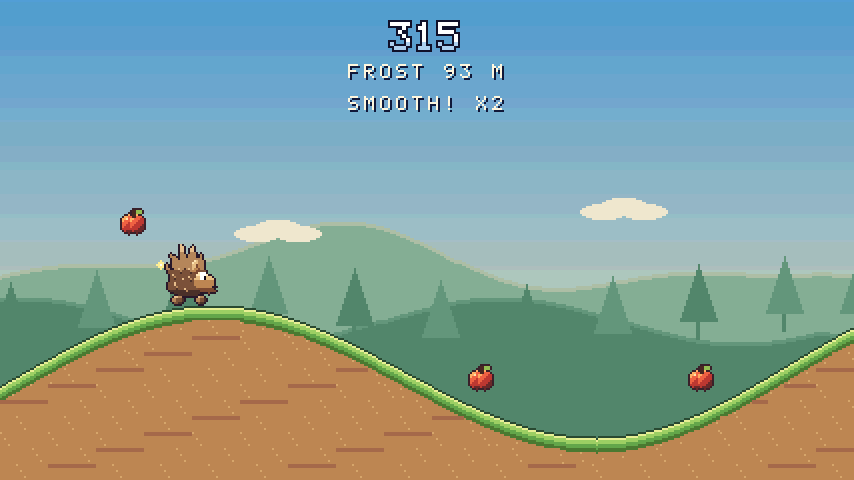
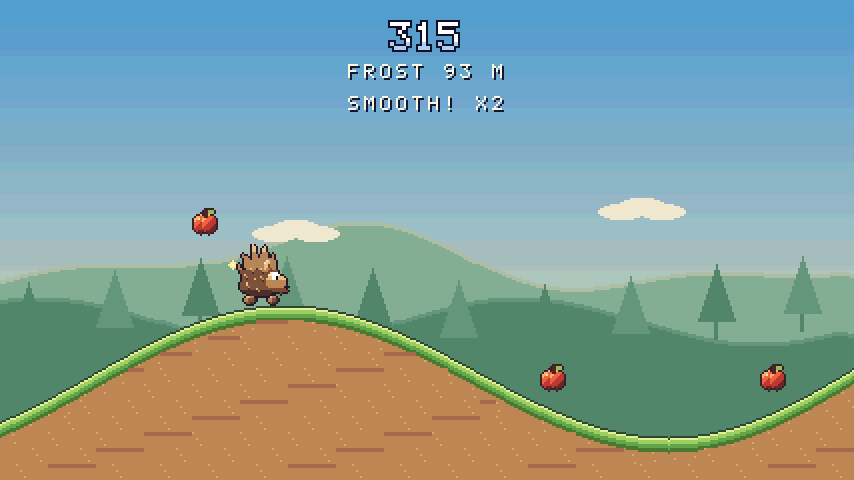
Wide view 1/3 left: hedgehoghills
The owner's decision: in widescreen the hedgehog sat too far left before a long empty
stretch. A third of the view's extra width is now shown behind it, two thirds ahead:
the camera (draw.c cam_x; split.c each view's scroll) starts WIDE_LEFT of the view's
columns past those it has at 320 left of the world's scroll (game.h: 36 at 427, 67 at
520, 80 at 560; a half view a third of its own extra columns; 0 at 320), so the
hedgehog runs that much right of HERO_X; the stage origin and the UI are unchanged.
- Behind it the hills are drawn: the terrain, the apples and the frost from the left;
  before the start (the title too) the ground behind the starting line (a split view
  may now scroll left of 0 by its third; floor divisions there).
- The world, the physics, the scoring and the start distance are unchanged: the logs at
  320, 427 and 520 are identical to before; 320 is byte-identical (300 dense pictures
  and 4 logs compared).
- tests/wide_test.sh: the view check (--opt view=1) asserts the third on the left, the
  hedgehog's screen x (that of 320 plus the third) and the next apple's distance on the
  screen (that of 320) at 427, 520 and 560, at the start, in a run and in P1's view of
  a 2-player game.
- Screenshots at 427 and 520 re-rendered; DESIGN.md says so.

diff --git a/games/hedgehoghills/src/draw.c b/games/hedgehoghills/src/draw.c
@@ -1,10 +1,10 @@
 /* Hedgehog Hills video, using the shared 8BCraft kit. MIT, (c) 2026 8BCraft.
- * Widescreen (DESIGN.md "Widescreen"): a side-scroller, so the hills are revealed wider, to the right (the stage
- * origin stays 0): the hedgehog runs at the same screen x (HERO_X), the screen shows further ahead: the terrain's
- * columns, the apples of the hills in view and the distant forest to the screen's edge. The maps are 128 tiles wide;
- * the forest's 512-px panorama goes on with its mirror image (the same tiles h-flipped: nothing repeats on a 560-px
- * screen). The UI is centred (the UI layer scrolls by -hu_ui_x(), the game's UI sprites add it); the split screens
- * (split.c) split the whole width. */
+ * Widescreen (DESIGN.md "Widescreen"): a side-scroller, so the hills are revealed wider: a third of the extra width
+ * behind the hedgehog, two thirds ahead (the stage origin stays 0; the camera, cam_x, starts draw_wide_left() px left
+ * of the world's scroll, so the hedgehog runs that much right of HERO_X): the terrain's columns, the apples of the
+ * hills in view and the distant forest from edge to edge. The maps are 128 tiles wide; the forest's 512-px panorama
+ * goes on with its mirror image (the same tiles h-flipped: nothing repeats on a 560-px screen). The UI is centred
+ * (the UI layer scrolls by -hu_ui_x(), the game's UI sprites add it); the split screens (split.c) split the whole width. */
 #include "game.h"
 #include "assets.h"
 #include "house_ui.h"
@@ -18,6 +18,11 @@ static rs_color line_col[RS_SCREEN_H];
 static int shown_state=-1,shown_best=-1,cam_y;
 static int laid_w;                     /* the width the maps were laid out for (a state of another width: relayout) */
 int draw_wide(void) { return rs_screen_width()>RS_SCREEN_W; }
+/* the columns a view of view_w shows behind its hedgehog: a third of its extra width (view_w less the width it has at 320:
+ * 320 for the screen, 159 for a half); 0 at 320 */
+int draw_wide_left(int view_w) { return WIDE_LEFT(view_w-view_w*RS_SCREEN_W/rs_screen_width()); }
+int draw_p1_x=-999;
+static int cam_x;                      /* the single view's camera: the world's scroll less draw_wide_left() (per frame) */
 /* the distant forest's map entry at column col of a 64- or 128-tile map: widescreen, the panorama then its mirror */
 uint16_t draw_hills_entry(int row,int col) {
     col&=draw_wide()?127:63;
@@ -66,7 +71,7 @@ static void distant_hills(const world *w) {
         uint16_t tile=yy<0?RS_MAP(gm_bg3_tile_count,PAL_HILLS,0,0,0):draw_hills_entry(yy<HILLS_H?yy:HILLS_H-1,x);
         rs_bg_put(RS_BG3,x,y,tile);
     }
-    rs_bg_scroll(RS_BG3,(w->scroll/4)&(mw*8-1),offset-first*8);
+    rs_bg_scroll(RS_BG3,(cam_x>>2)&(mw*8-1),offset-first*8);   /* >>2: floor (cam_x < 0 behind the start) */
 }
 /* the maps of this width: 64 tiles at 320, 128 wider */
 static void maps_setup(void) {
@@ -126,7 +131,7 @@ static void terrain(const world *w) {
     for(int c=0;c<cols;c++) {
         int floors[8],lo=1000,hi=-1000;
         for(int x=0;x<8;x++) {
-            floors[x]=(hill_y(w,w->scroll+c*8+x)>>16)-cam_y;
+            floors[x]=(hill_y(w,cam_x+c*8+x)>>16)-cam_y;
             if(floors[x]<lo) lo=floors[x];
             if(floors[x]>hi) hi=floors[x];
         }
@@ -136,15 +141,15 @@ static void terrain(const world *w) {
         for(int r=first;r<=last && r-first<8;r++) for(int y=0;y<8;y++) for(int x=0;x<8;x++) {
             int yy=r*8+y,d=yy-floors[x],val=0;
             if(d>=0) val=d==0?1:d==1?2:d<4?3:d<6?4:d<8?5:6;
-            if(d>=8 && ((w->scroll+c*8+x)*13+yy*7)%41==0) val=9;
-            if(val && draw_frozen_pixel(w,w->scroll+c*8+x,yy+cam_y)) val=draw_iced(val);
+            if(d>=8 && ((cam_x+c*8+x)*13+yy*7)%41==0) val=9;
+            if(val && draw_frozen_pixel(w,cam_x+c*8+x,yy+cam_y)) val=draw_iced(val);
             edge[(r-first)*64+y*8+x]=(uint8_t)val;
         }
         rs_tiles_load8(VR_BG2+16+c*8,edge,8);
         for(int r=0;r<30;r++) {
             int tile=r<first?0:r<=last?16+c*8+r-first:((r+c/3)%5==0?2:(r+c)%3==0?3:1);
             if(r>last) {
-                int wx=w->scroll+c*8;
+                int wx=cam_x+c*8;
                 if(front-wx-7+48-8>=96) tile+=3;
                 else if(front-wx+48+8>0 && frost_tile<256) {
                     uint8_t pix[64];
@@ -234,6 +239,7 @@ void draw_frame(const world *w,int state,int st_t,int best,int new_best,int paus
         if(yy<target) target=yy;
     }
     if(!paused) cam_y+=(target-cam_y)/8;
+    cam_x=w->scroll-draw_wide_left(rs_screen_width());   /* widescreen: a third of the extra width behind */
     scenery(w); terrain(w); distant_hills(w);
     int sx=hu_shake_x(),sy=hu_shake_y();
     rs_bg_scroll(RS_BG2,-sx,-sy);
@@ -262,28 +268,30 @@ void draw_frame(const world *w,int state,int st_t,int best,int new_best,int paus
     } else {
         for(int p=w->players-1;p>=0;p--) {
             const hero *h=&w->h[p];
-            if(h->state==HS_OFF||h->x<-24) continue;
-            int yy=(h->y>>16)-32+2-cam_y;
-            spr(draw_hero_sprite(h,st_t),h->x-16+sx,yy+sy,2,draw_player_pal(p));
+            int hx=h->x+w->scroll-cam_x;       /* its screen x (h->x: from the world's scroll) */
+            if(h->state==HS_OFF||hx<-24) continue;
+            int yy=(h->y>>16)-32+2-cam_y,n=rs_oam_next();
+            spr(draw_hero_sprite(h,st_t),hx-16+sx,yy+sy,2,draw_player_pal(p));
+            if(p==0) draw_p1_x=rs_oam_next()>n?rs_oam(n)->x+16+rs_screen_origin_x():-999;
             if(h->state==HS_RUN && h->held && h->grounded && h->vx>6*Q16_ONE)
-                spr(SPR_PUFF+(w->t/4)%3,h->x-25,yy+24,1,-1);
-            if(h->smooth_t>0) hu_sparkle(h->x-20-hu_ui_x(),yy+6,w->t,2);   /* kit sprites: UI coordinates */
+                spr(SPR_PUFF+(w->t/4)%3,hx-25,yy+24,1,-1);
+            if(h->smooth_t>0) hu_sparkle(hx-20-hu_ui_x(),yy+6,w->t,2);   /* kit sprites: UI coordinates */
             if(h->spill && h->smooth_t<0 && h->land_t<24) {
                 int t=h->land_t;
                 for(int k=0;k<h->spill;k++)
-                    spr(SPR_APPLE,h->x-8-t*(k+1),yy+8-t*3+t*t/8-k*5,1,-1);
+                    spr(SPR_APPLE,hx-8-t*(k+1),yy+8-t*3+t*t/8-k*5,1,-1);
             }
         }
         /* the apples of the hills in view (two hills at 320; widescreen: as many as the screen shows) */
-        int first=(w->scroll/HILL_SPAN)*3,hills_seen=(rs_screen_width()+HILL_SPAN-1)/HILL_SPAN+1;
+        int first=(cam_x>0?cam_x/HILL_SPAN:0)*3,hills_seen=(rs_screen_width()+HILL_SPAN-1)/HILL_SPAN+1;
         for(int a=first;a<first+3*hills_seen;a++) {
             int ax,ay; apple_pos(w,a,&ax,&ay);
             int visible=0;
             for(int p=0;p<w->players;p++) if(w->h[p].state==HS_RUN && w->h[p].apple_id<a) visible=1;
-            if(visible) spr(SPR_APPLE,ax-w->scroll-8,ay-cam_y-8+hu_bob(w->t+a*11,80,2),1,-1);
+            if(visible) spr(SPR_APPLE,ax-cam_x-8,ay-cam_y-8+hu_bob(w->t+a*11,80,2),1,-1);
         }
         /* Wind-blown flakes and long wisps echo the feathered terrain edge. */
-        int front=(int)(w->frost/Q16_ONE)-w->scroll;
+        int front=(int)(w->frost/Q16_ONE)-cam_x;
         if(front>-100) for(int i=0;i<18;i++) {
             int x=front+38-((w->t*2+i*31)%155),y=(w->t+i*37)%220;
             spr(SPR_SNOW,x,y,2,-1);
@@ -293,6 +301,17 @@ void draw_frame(const world *w,int state,int st_t,int best,int new_best,int paus
             spr(SPR_FROST_WISP+(w->t/12+i)%2,x,y,1,-1);
         }
     }
+}
+/* Tests (--opt view=1, main.c at exit): P1's view of the last frame, "view: width=W left=L p1_x=X next_x=N": L the
+ * columns shown behind the hedgehog (a third of the view's extra width), X the screen x of P1's sprite centre as drawn,
+ * N the screen x of the next apple ahead of P1 (tests/wide_test.sh: X and N - X against 320) */
+void draw_view_log(const world *w) {
+    int split=draw_split_view_x(0),hx=(int)(w->h[0].wx>>16),a=0,ax,ay;
+    do apple_pos(w,a++,&ax,&ay); while(ax<=hx && a<10000);
+    int vw=split>-9999?draw_split_view_w(0):rs_screen_width();
+    int left=draw_wide_left(vw),cam=split>-9999?draw_split_scroll(0):cam_x;
+    rs_log("view: width=%d left=%d p1_x=%d next_x=%d",rs_screen_width(),left,draw_p1_x,
+           (split>-9999?split:rs_screen_left())+rs_screen_origin_x()+ax-cam);
 }
 #define S(v) rs_state_var("draw." #v,&(v),sizeof(v))
 void draw_state(void) { S(line_col); S(shown_state); S(shown_best); S(cam_y); S(laid_w); draw_split_state(); RS_STATE_RASTER(raster); }

diff --git a/games/hedgehoghills/src/split.c b/games/hedgehoghills/src/split.c
@@ -1,6 +1,6 @@
 /* Independent multiplayer cameras, using SDK viewports and shared tile atlases.
  * Widescreen (DESIGN.md "Widescreen"): the views split the whole width (rs_viewport_layout) and each shows more of its
- * hills ahead; a view is compact (its hedgehog 48 px from its left edge) when it is narrower than 3/4 of the screen,
+ * hills, a third of its extra width behind its hedgehog (draw_wide_left), two thirds ahead; a view is compact (its hedgehog 48 px from its left edge) when it is narrower than 3/4 of the screen,
  * as at 320; the right-hand views use map columns 64 on (128-tile maps); each view's text sits in the UI columns of
  * its place on the screen.
  * MIT, (c) 2026 Pierre-Louis Boyer (8BCraft). */
@@ -91,7 +91,7 @@ static void hills(const split_view *v,rs_viewport *vp) {
     /* Every atlas slice has its own world rows; no vertical wrapping into ground. */
     int yoff=v->cam_y/4+(RS_SCREEN_H-vp->h)/2;
     int first=floor8(yoff),frac=yoff-first*8;
-    int xoff=v->scroll/4,first_x=xoff/8;
+    int xoff=v->scroll>>2,first_x=xoff>>3;      /* floor: a scroll < 0 behind the start (widescreen) */
     int cols=(vp->w+(xoff&7)+7)/8,rows=(vp->h+frac+7)/8;
     for(int y=0;y<rows;y++) for(int x=0;x<cols;x++) {
         int yy=first+y-HILLS_Y/8;
@@ -105,7 +105,9 @@ static void hills(const split_view *v,rs_viewport *vp) {
 static void objects(const world *w,int p,int t,const split_view *v,const rs_viewport *vp) {
     const hero *h=&w->h[p];
     int x=(int)(h->wx>>16)-v->scroll,y=(h->y>>16)-30-v->cam_y;
+    int n=rs_oam_next();
     spr(vp,draw_hero_sprite(h,t),x-16,y,2,draw_player_pal(p));
+    if(p==0) draw_p1_x=rs_oam_next()>n?vp->x+rs_screen_origin_x()+rs_oam(n)->x+16:-999;
     if(h->state==HS_RUN && h->held && h->grounded && h->vx>6*Q16_ONE)
         spr(vp,SPR_PUFF+(w->t/4)%3,x-25,y+24,1,-1);
     if(h->smooth_t>0) hu_sparkle(x-20-hu_ui_x(),y+6,w->t,2);   /* kit sprites: UI coordinates */
@@ -162,8 +164,11 @@ void draw_split_frame(const world *w,int st_t,int paused) {
             if(foot-v->cam_y<60) v->cam_y=foot-60;
             if(foot-v->cam_y>vp->h-10) v->cam_y=foot-vp->h+10;
         }
-        v->scroll=(int)(h->wx>>16)-(compact(vp)?48:HERO_X);
-        if(v->scroll<0) v->scroll=0;
+        /* widescreen: a third of the view's extra width behind the hedgehog (0 at 320); behind the start, the hills
+         * behind the starting line (down to -that third, as at 320 down to 0) */
+        int behind=draw_wide_left(vp->w);
+        v->scroll=(int)(h->wx>>16)-(compact(vp)?48:HERO_X)-behind;
+        if(v->scroll<-behind) v->scroll=-behind;
         draw_scenery_colors(v->scroll,vp->h,v->sky,v->soil,v->hills);
         terrain(w,v,vp,&next_tile); hills(v,vp);
         vp->layers=7; vp->objs=1;
@@ -192,6 +197,10 @@ void draw_split_frame(const world *w,int st_t,int paused) {
     }
     rs_viewports(nviews,views,RS_HEX(0x294c30));
 }
+/* tests (draw_view_log): P1's view, if the split screen shows (its stage x, else -9999), its width, its scroll */
+int draw_split_view_x(int p) { return p<nviews?views[p].x:-9999; }
+int draw_split_view_w(int p) { return p<nviews?views[p].w:0; }
+int draw_split_scroll(int p) { return p<nviews?V[p].scroll:0; }
 #define S(v) rs_state_var("split." #v,&(v),sizeof(v))
 void draw_split_state(void) { S(V); S(views); S(nviews); }
 #undef S

diff --git a/games/hedgehoghills/src/main.c b/games/hedgehoghills/src/main.c
@@ -12,6 +12,7 @@
  *   seed=N         a fixed course (default: from the frame of the first press)
  *   players=N      start with N players joined (1..4);  ready=1  skip the title (the run waits for a press)
  *   dump=1         log the final state at exit (tests); music=0, sound=0
+ *   view=1         log the view at exit (tests/wide_test.sh: widescreen, a third of the extra width behind)
  */
 #include "game.h"
 #include "assets.h"
@@ -149,11 +150,11 @@ static void play_update(void)
     for (int p = 0; p < W.players; p++) {
         int ev = W.events[p];
         const hero *h = &W.h[p];
-        if (ev & EV_JUMP) sfx_at(SFX_JUMP, h->x);
-        if (ev & (EV_SCORE | EV_APPLE)) sfx_at(SFX_SCORE, h->x);
-        if (ev & EV_LAND) sfx_at(SFX_LAND, h->x);
+        if (ev & EV_JUMP) sfx_at(SFX_JUMP, h->x + draw_wide_left(rs_screen_width()));
+        if (ev & (EV_SCORE | EV_APPLE)) sfx_at(SFX_SCORE, h->x + draw_wide_left(rs_screen_width()));
+        if (ev & EV_LAND) sfx_at(SFX_LAND, h->x + draw_wide_left(rs_screen_width()));
         if (ev & EV_HIT) {
-            sfx_at(SFX_HIT, h->x);
+            sfx_at(SFX_HIT, h->x + draw_wide_left(rs_screen_width()));
             hu_shake(3, 12);                    /* house rule: shake on a hit only, <= 4 px, <= 16 frames */
             rs_log("player %d hit at frame %u (score %d)", p + 1, rs_frame_count(), h->score);
         }
@@ -248,6 +249,7 @@ static void game_init(void)
 
 static void game_shutdown(void)
 {
+    if (rs_option_int("view", 0)) draw_view_log(&W);      /* tests/wide_test.sh: the view (widescreen) */
     if (!rs_option_int("dump", 0)) return;
     char sc[48] = "", hs[48] = "";
     for (int p = 0; p < W.players; p++) {

diff --git a/games/hedgehoghills/src/game.h b/games/hedgehoghills/src/game.h
@@ -13,6 +13,12 @@
 #define READY_BOB 4
 #define BOT_START 20
 #define MEDAL_SCORES {100, 250, 500, 1000}
+/* Widescreen (DESIGN.md "Widescreen"): the share of the extra width of a view (its columns past those it has at 320)
+ * shown BEHIND the hedgehog, on the left: one third (the owner's decision), the other two thirds ahead. WIDE_LEFT(extra)
+ * rounds it: 36 px on a 427-px screen, 67 at 520, 80 at 560, 0 at 320. */
+#define WIDE_LEFT_NUM 1
+#define WIDE_LEFT_DEN 3
+#define WIDE_LEFT(extra) (((extra)*WIDE_LEFT_NUM*2+WIDE_LEFT_DEN)/(2*WIDE_LEFT_DEN))
 enum hero_state { HS_READY, HS_RUN, HS_HIT, HS_DOWN, HS_OFF };
 typedef struct hero {
     int state, t, x, score, air_t, land_t;
@@ -54,6 +60,12 @@ void draw_split_state(void);
 int draw_wide(void);                        /* widescreen: the screen is wider than 320 */
 uint16_t draw_hills_entry(int row,int col); /* the distant forest's map entry (widescreen: with its mirror image) */
 void draw_relayout(void);                   /* after a state of another width was loaded: this width's maps */
+int draw_wide_left(int view_w);         /* widescreen: the columns a view of view_w shows behind its hedgehog */
+void draw_view_log(const world *w);         /* tests (--opt view=1): the view at exit, "view: width= left= p1_x= next_x=" */
+extern int draw_p1_x;                       /* tests: P1's sprite centre on the screen, as last drawn (-999: none) */
+int draw_split_view_x(int p);                /* tests: the split view of player p (its stage x; -9999: no split) */
+int draw_split_view_w(int p);
+int draw_split_scroll(int p);
 enum { SFX_JUMP, SFX_SCORE, SFX_HIT, SFX_LAND, SFX_COUNT };
 #define SFX_HOUSE SFX_COUNT
 #endif

diff --git a/games/hedgehoghills/DESIGN.md b/games/hedgehoghills/DESIGN.md
@@ -69,14 +69,22 @@ uneven snow edge, and drifting snow wisps. The original collision position is pr
 ## Widescreen (docs/spec.md "Widescreen")
 
 The game opts in (`max_width` = 560, `WIDESCREEN_hedgehoghills = 1`): 320 x 240 is unchanged pixel for pixel; at
-427 (16:9), 520 or 560 (phones) **the hills are revealed wider, to the right**: a side-scroller, so the stage origin
-stays 0. The hedgehog runs at the same screen x (HERO_X 96), the frost comes from the left as before, and the screen
-shows more of the hills ahead; seeing further makes it a little easier, which the owner accepts (no compensation).
+427 (16:9), 520 or 560 (phones) **the hills are revealed wider: a third of the extra width behind the hedgehog, two
+thirds ahead** (the owner's decision: with all of it ahead the hedgehog sat too far left before a long empty stretch).
+A side-scroller: the stage origin stays 0 and the camera (draw.c cam_x; split.c each view's scroll) starts a third of
+the view's extra width left of the world's scroll (`WIDE_LEFT`, game.h: 36 px at 427, 67 at 520, 80 at 560, 0 at
+320; a half view a third of its own extra columns), so the hedgehog runs that much right of HERO_X 96 and sees the
+rest ahead; seeing further makes it a little easier, which the owner accepts (no compensation). Behind it the hills
+are drawn like the rest: the terrain, the apples and the frost coming from the left, and before the start (the title
+too) the ground behind the starting line.
 - **The same run**: the terrain's columns (one per 8 px, up to 70 at 560; the frost's tiles after them), the apples of
   every hill in view and the distant forest go to the screen's edge; the world never looked at the screen (its scroll
   is the leader's x - HERO_X). tests/wide_test.sh compares the whole logs (scores, game overs, the final state and its
   hash) of 1-player and 4-player bot runs at 320, 427, 520 and 560. The start of a run is the same too: the first
-  hills and apples sit at the same distance from the hedgehog as at 320 (visible from the first frame).
+  hills and apples sit at the same distance from the hedgehog as at 320 (visible from the first frame). Its view
+  check (`--opt view=1` logs the view at exit) asserts the third on the left, the hedgehog's screen x (that of 320
+  plus the third) and the next apple's distance on the screen (that of 320), at the start, in a run and in P1's view
+  of a 2-player game.
 - **The distant forest** (BG3) goes on with its mirror image (the same tiles h-flipped on a 128-tile map: no VRAM,
   seamless joins), so a 560-px screen never shows a stretch twice.
 - **Multiplayer** (split.c): the views split the whole width (2 players: top and bottom, 3: a top half and two lower
